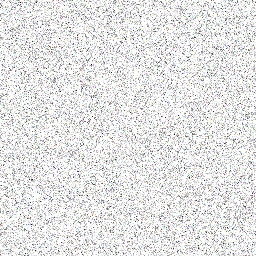
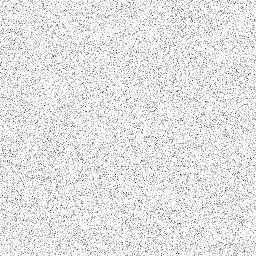
Hero grain: static, mostly dark, subtle (Elyte-style)

diff --git a/src/app/globals.css b/src/app/globals.css
@@ -140,35 +140,15 @@ a:focus-visible > .logo .logo-roof-hover {
 }
 
 /* ── Hero film grain ─────────────────────────────────────────
- * Fine pixel-level grain with a slight colour speckle, matching the grain
- * baked into the Elyte hero photo. Transparent light/dark specks — no blend
- * mode, so it renders the same over the video in every browser. 256px tile drawn at 128 CSS px so it is
- * one grain per device pixel on retina screens; jumps position 8×/s like film.
+ * Static, subtle, mostly-dark grain over the video — like the grain baked
+ * into the Elyte hero photo. 256px tile drawn at 128 CSS px (one grain per
+ * device pixel on retina). No animation, no blend mode.
  */
 .hero-noise {
   pointer-events: none;
-  overflow: hidden;
-}
-.hero-noise::after {
-  content: "";
-  position: absolute;
-  inset: -128px;
-  opacity: 0.55;
   background-image: url("/media/grain.png");
   background-size: 128px 128px;
-  animation: hero-grain 0.5s steps(1) infinite;
-}
-@keyframes hero-grain {
-  0% { transform: translate(0, 0); }
-  25% { transform: translate(-37px, 21px); }
-  50% { transform: translate(53px, -44px); }
-  75% { transform: translate(-19px, -61px); }
-  100% { transform: translate(0, 0); }
-}
-@media (prefers-reduced-motion: reduce) {
-  .hero-noise::after {
-    animation: none;
-  }
+  opacity: 0.6;
 }
 
 /* ── Logo strip marquee ──────────────────────────────────────
